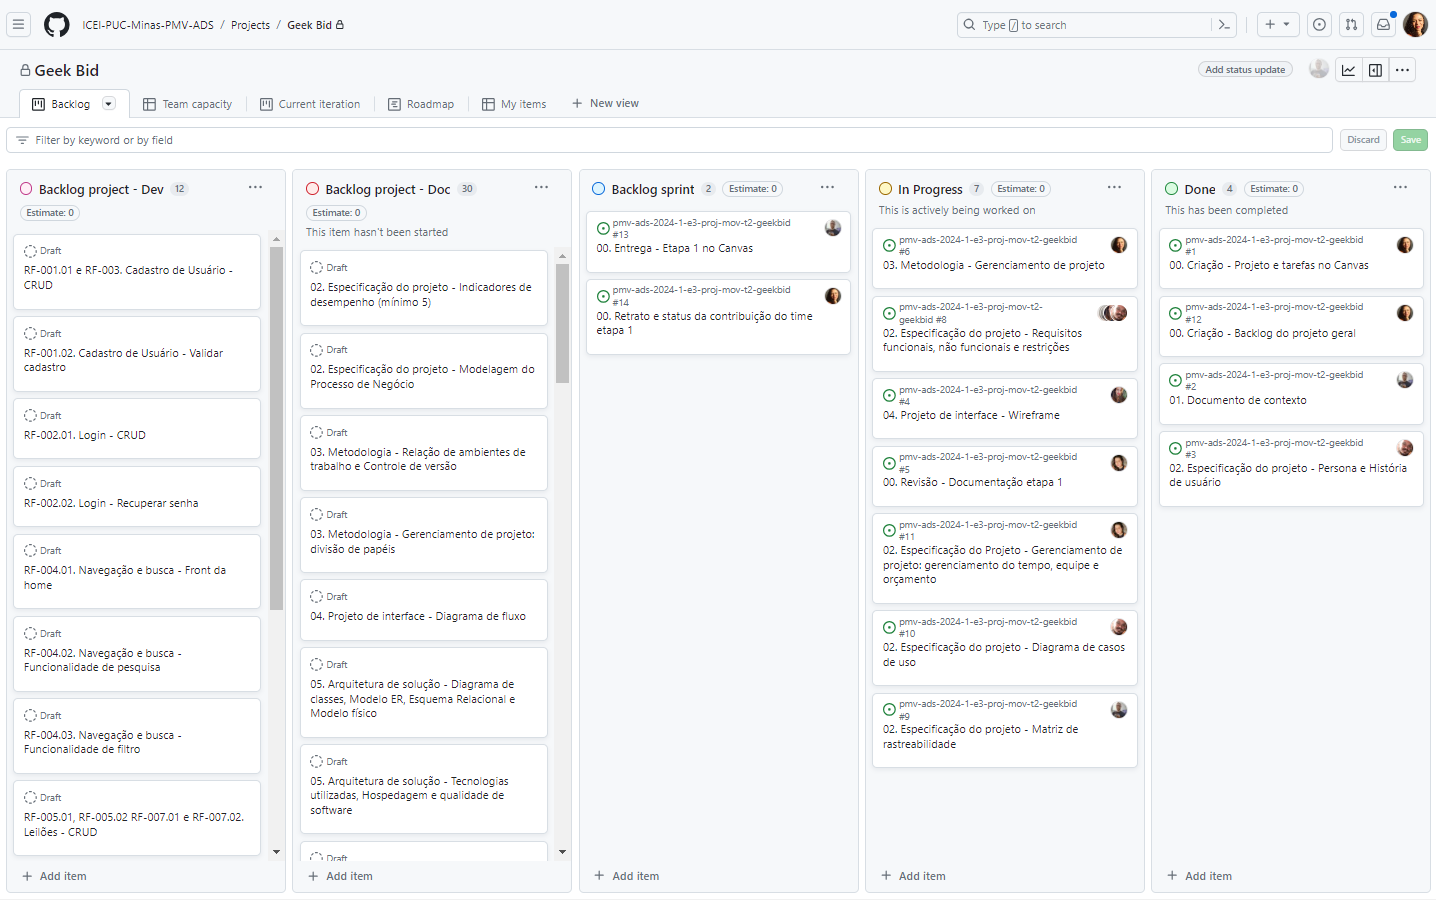
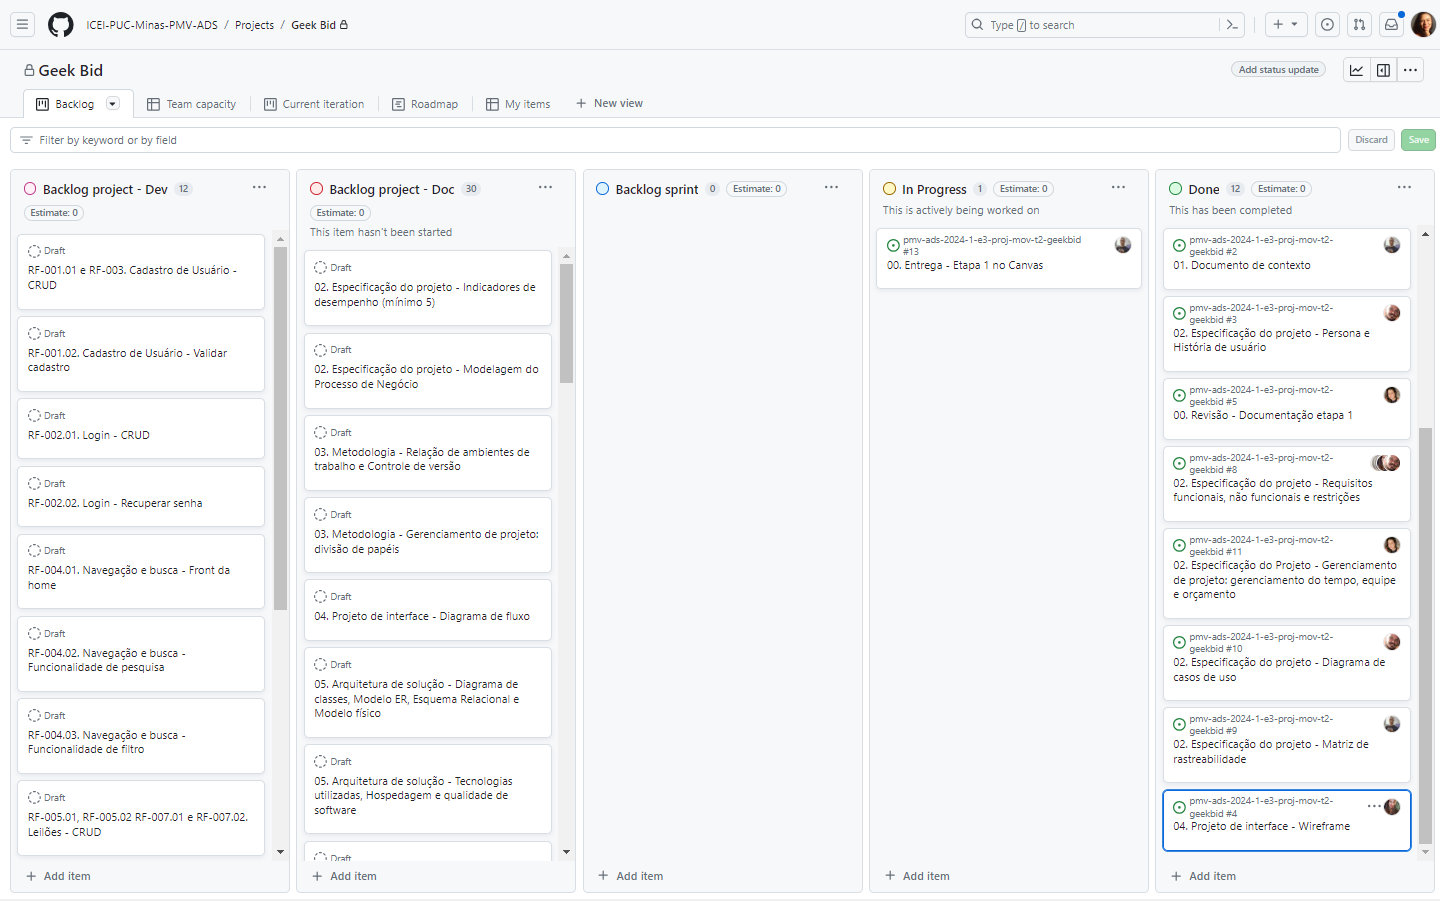
Retrato Time x Sprint v4

diff --git a/docs/03.01-Retrato Time x Sprint.md b/docs/03.01-Retrato Time x Sprint.md
@@ -66,17 +66,17 @@ Nesta seção, apresentamos um quadro detalhando as atividades de cada membro da
 |------------------------------|------------------------------|---------------|----------|------------------|
 | REF-000                      | Criação - Projeto e tarefas no Canvas | Talita        | Concluída | 1 |
 | REF-000                      | Criação - Backlog do projeto geral | Talita        | Concluída | 1 |
-| REF-000                      | Retrato e status da contribuição do time etapa 1  | Talita          | Em andamento  | 1 |
-| REF-000                      | Revisão - Documentação etapa 1        | Bianca          | Em andamento     | 1 |
-| REF-000                      | Entrega - Etapa 1 no Canvas  | Marco          | Pendente  | 1 |
+| REF-000                      | Retrato e status da contribuição do time etapa 1  | Talita          | Concluída  | 1 |
+| REF-000                      | Revisão - Documentação etapa 1        | Bianca          | Concluída     | 1 |
+| REF-000                      | Entrega - Etapa 1 no Canvas  | Marco          | Em andamento  | 1 |
 | REF-001                      | Documento de contexto        | Marco    | Concluída    | 1 |
 | REF-002                      | Especificação do projeto - Persona e História de usuário| Gabriel | Concluída    | 1 |
-| REF-002                      | Especificação do projeto - Requisitos funcionais, não funcionais e restrições | Todos | Em andamento      | 1 |
-| REF-002                      | Especificação do Projeto - Gerenciamento de projeto: gerenciamento do tempo, equipe e orçamento         | Bianca          | Em andamento | 1 |
-| REF-002                      | Especificação do projeto - Diagrama de casos de uso     | Gabriel          | Em andamento     | 1 |
-| REF-002                      | Especificação do projeto - Matriz de rastreabilidade     | Marco        | Em andamento   | 1 |
-| REF-003                      | Metodologia - Gerenciamento de projeto         | Talita         | Em andamento | 2 |
-| REF-004                      | Projeto de interface - Wireframe | Irene        | Em andamento    | 2 |
+| REF-002                      | Especificação do projeto - Requisitos funcionais, não funcionais e restrições | Todos | Concluída      | 1 |
+| REF-002                      | Especificação do Projeto - Gerenciamento de projeto: gerenciamento do tempo, equipe e orçamento         | Bianca          | Concluída | 1 |
+| REF-002                      | Especificação do projeto - Diagrama de casos de uso     | Gabriel          | Concluída     | 1 |
+| REF-002                      | Especificação do projeto - Matriz de rastreabilidade     | Marco        | Concluída   | 1 |
+| REF-003                      | Metodologia - Gerenciamento de projeto         | Talita         | Concluída | 2 |
+| REF-004                      | Projeto de interface - Wireframe | Irene        | Concluída    | 2 |
 
 <!-- Descomentar de acordo com a etapa
 ### Etapa 2 - 11/03/24 a 31/03/24
